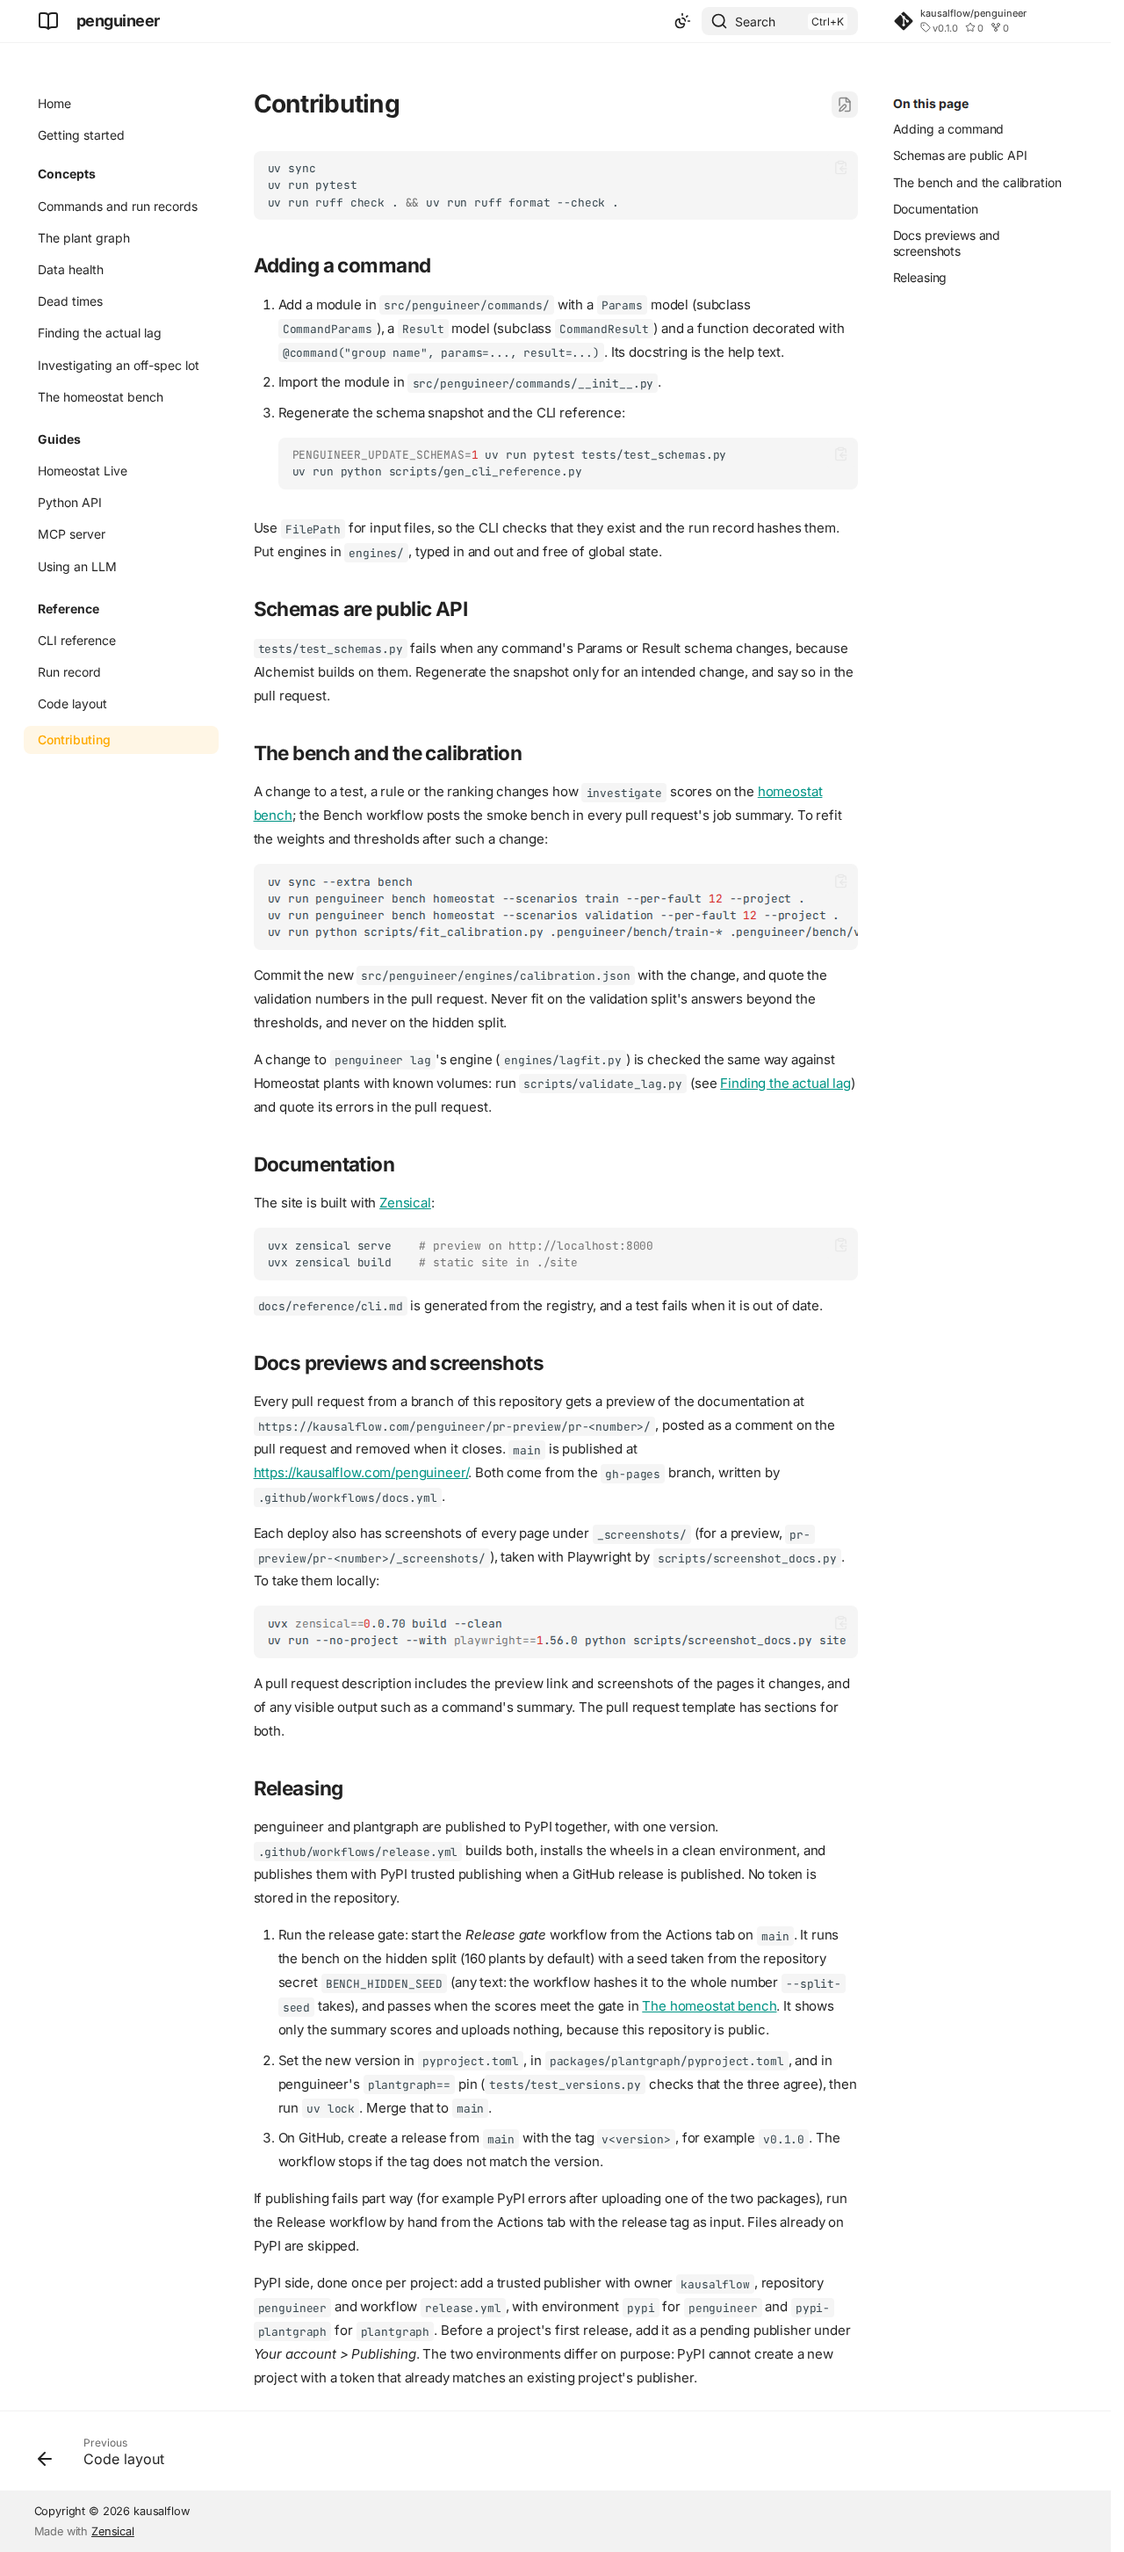
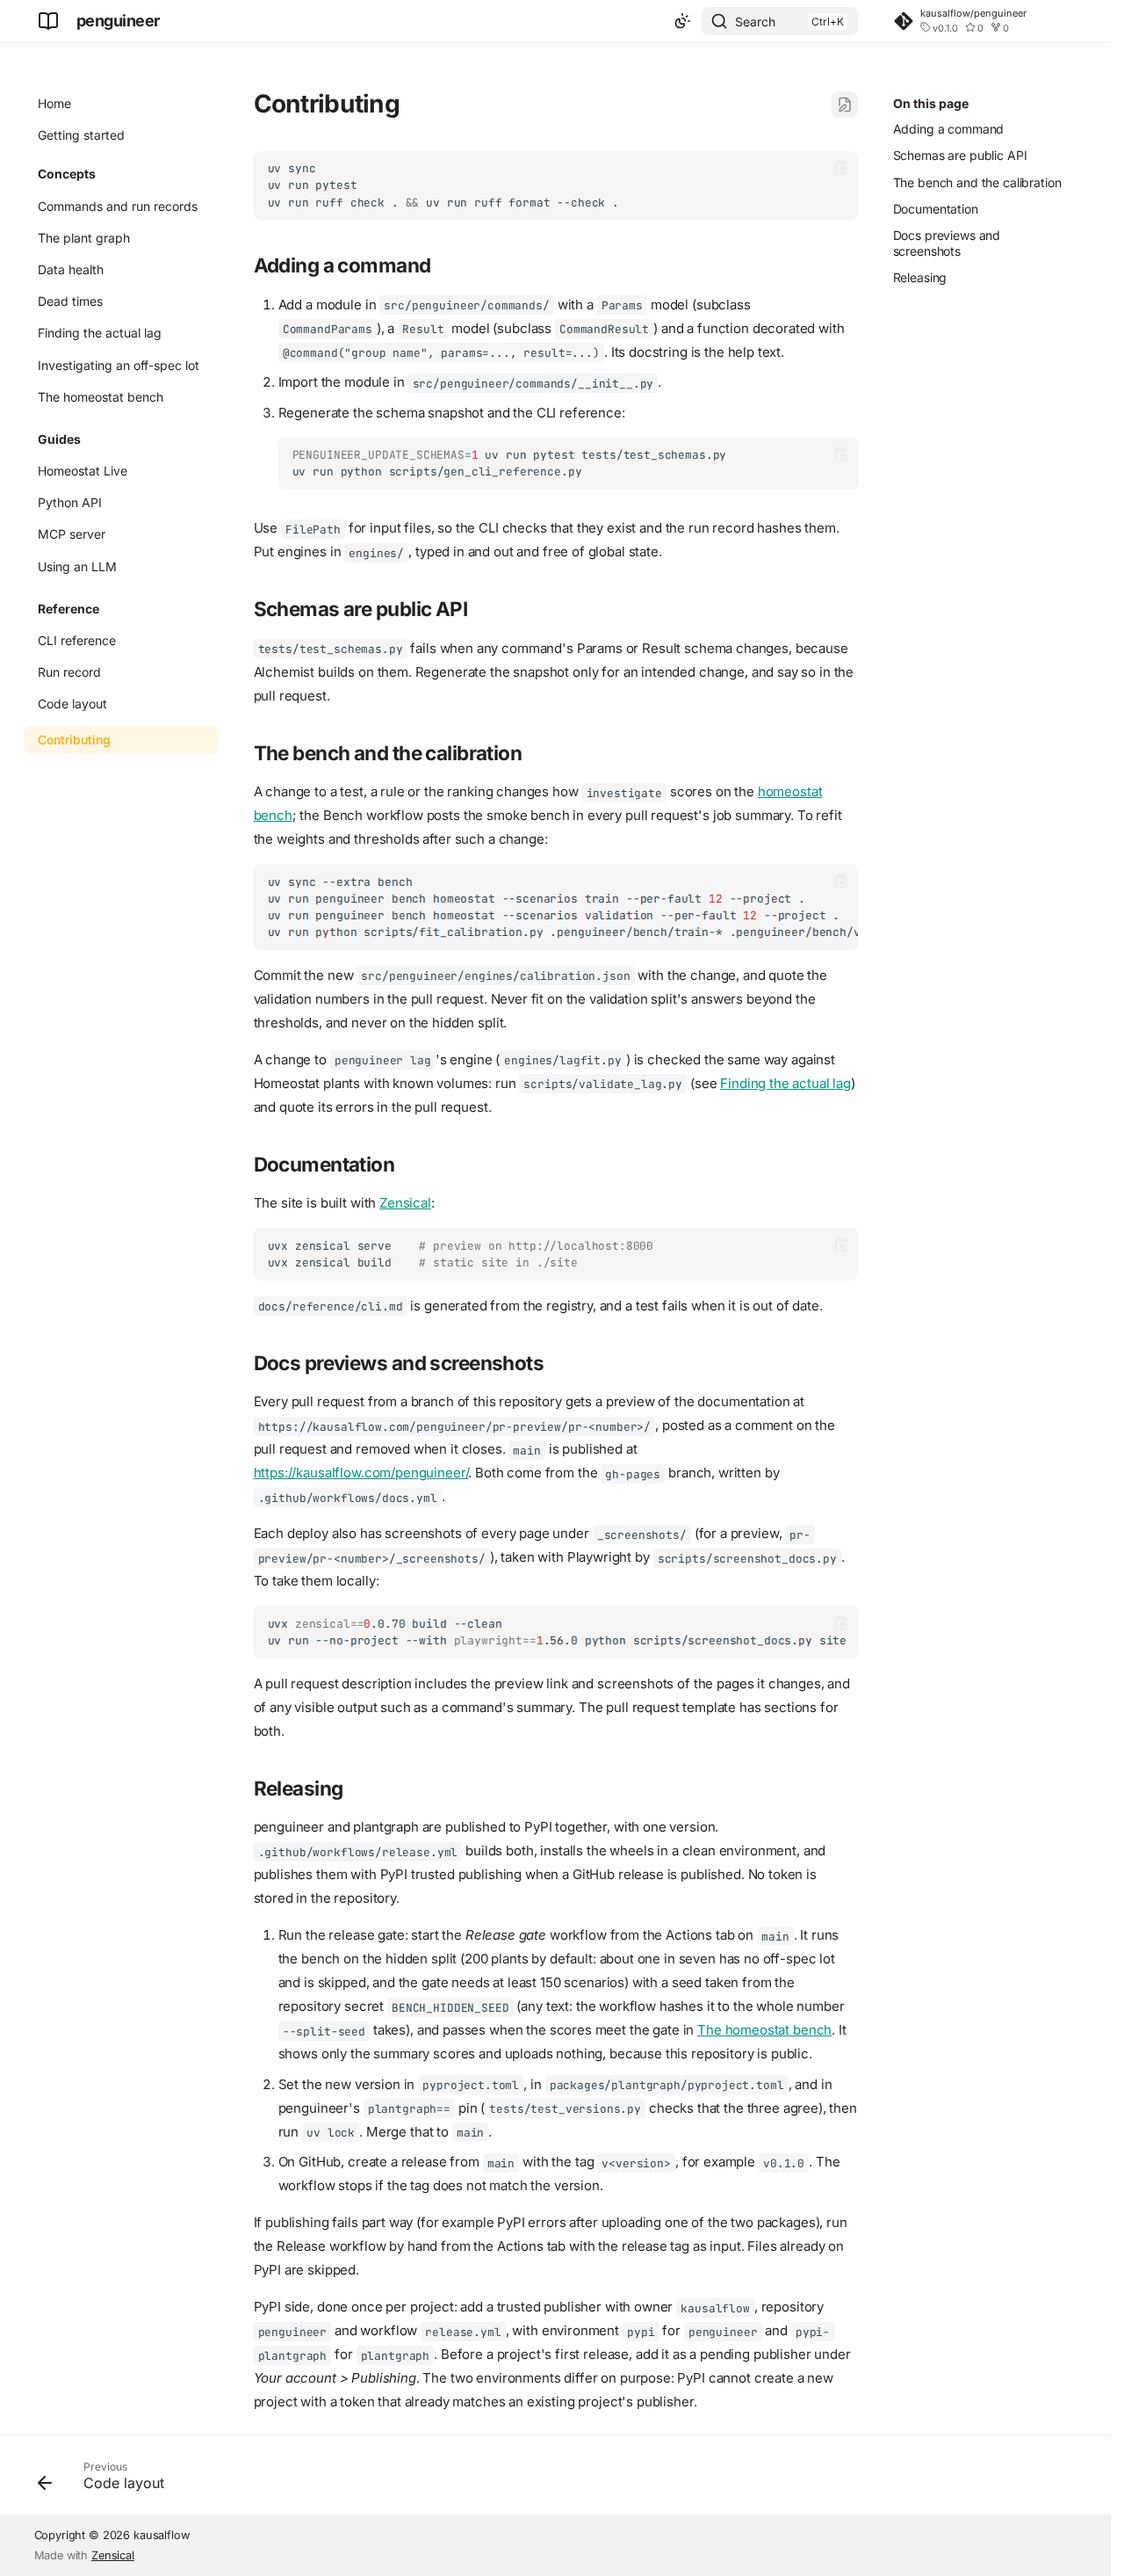
Deploy preview for PR 19 🛫

diff --git a/pr-preview/pr-19/contributing/index.html b/pr-preview/pr-19/contributing/index.html
@@ -1202,7 +1202,7 @@
 <h2 id="releasing">Releasing<a class="headerlink" href="#releasing" title="Permanent link">&para;</a></h2>
 <p>penguineer and plantgraph are published to PyPI together, with one version. <code>.github/workflows/release.yml</code> builds both, installs the wheels in a clean environment, and publishes them with PyPI trusted publishing when a GitHub release is published. No token is stored in the repository.</p>
 <ol>
-<li>Run the release gate: start the <em>Release gate</em> workflow from the Actions tab on <code>main</code>. It runs the bench on the hidden split (160 plants by default) with a seed taken from the repository secret <code>BENCH_HIDDEN_SEED</code> (any text: the workflow hashes it to the whole number <code>--split-seed</code> takes), and passes when the scores meet the gate in <a href="../concepts/bench/#metrics">The homeostat bench</a>. It shows only the summary scores and uploads nothing, because this repository is public.</li>
+<li>Run the release gate: start the <em>Release gate</em> workflow from the Actions tab on <code>main</code>. It runs the bench on the hidden split (200 plants by default: about one in seven has no off-spec lot and is skipped, and the gate needs at least 150 scenarios) with a seed taken from the repository secret <code>BENCH_HIDDEN_SEED</code> (any text: the workflow hashes it to the whole number <code>--split-seed</code> takes), and passes when the scores meet the gate in <a href="../concepts/bench/#metrics">The homeostat bench</a>. It shows only the summary scores and uploads nothing, because this repository is public.</li>
 <li>Set the new version in <code>pyproject.toml</code>, in <code>packages/plantgraph/pyproject.toml</code>, and in penguineer's <code>plantgraph==</code> pin (<code>tests/test_versions.py</code> checks that the three agree), then run <code>uv lock</code>. Merge that to <code>main</code>.</li>
 <li>On GitHub, create a release from <code>main</code> with the tag <code>v&lt;version&gt;</code>, for example <code>v0.1.0</code>. The workflow stops if the tag does not match the version.</li>
 </ol>
